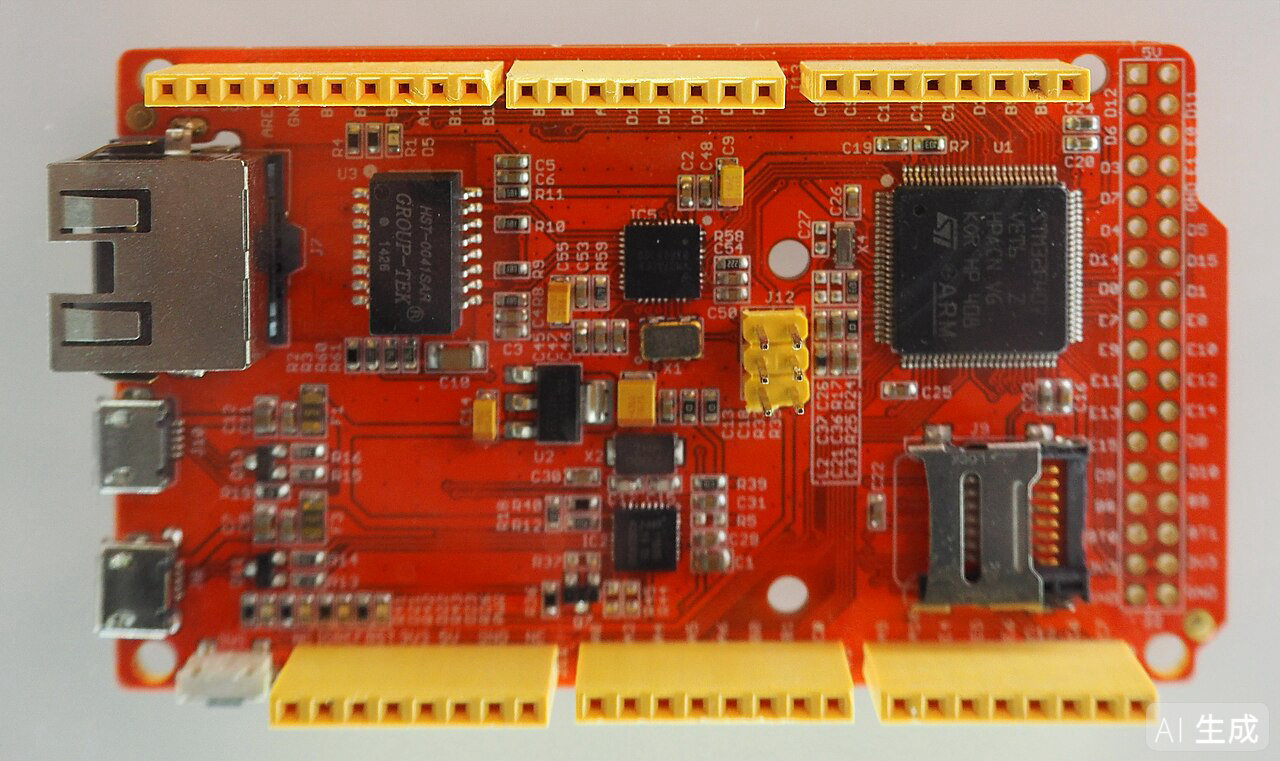
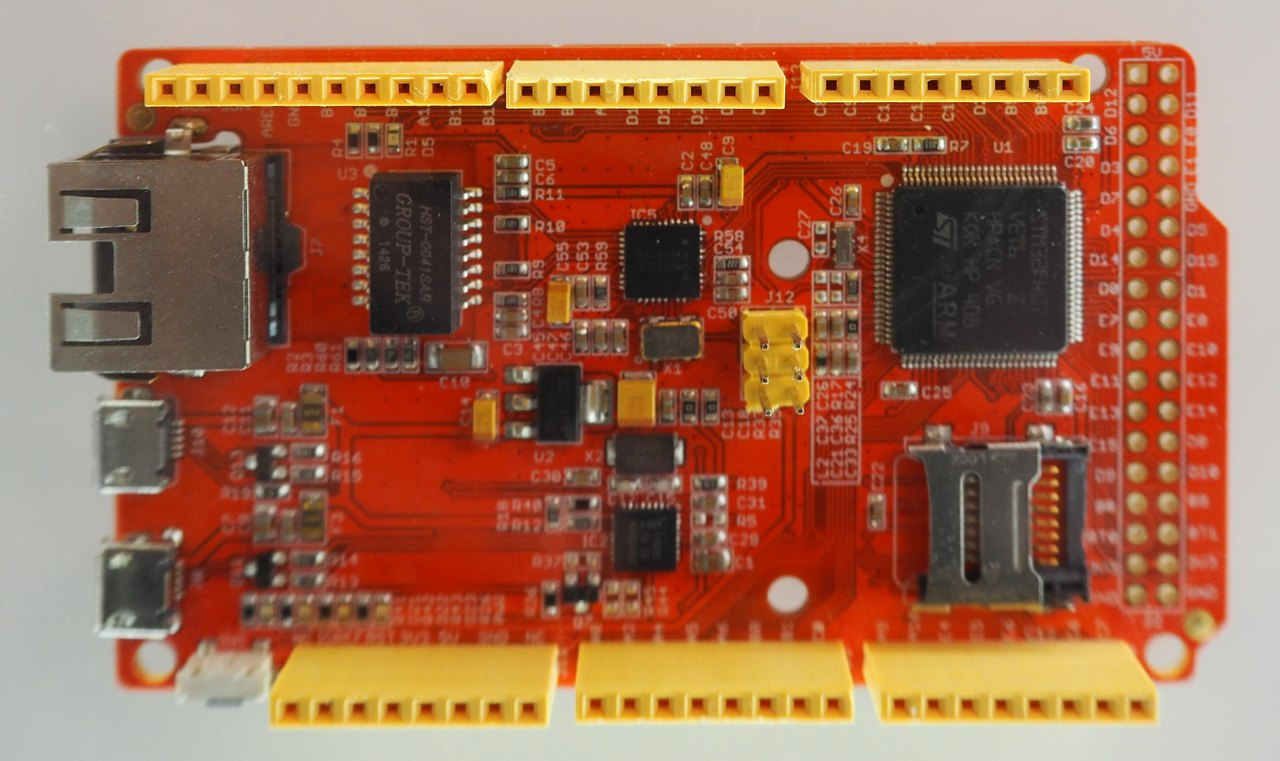
fix(media): replace AI board images with licensed real photos
Remove the AI-generated/watermarked STM32F407 and ESP32-S3 board
blobs that were mislabeled as real open-license photographs.

Use the verified Commons originals: Ordercrazy's CC0 F407 photo
and VectorVoyager's CC BY-SA 4.0 ESP32-S3-WROOM-1-N16R8 photo.
Record the retired hashes so the old AI blobs cannot roll back.

Add the ESP32-S3 photo to ch30, link the F407 source in ch05,
and extend the photo hash/mirror gate to 14 licensed entries.

Verified: check_assets 14/14 photos; book checks, HTML render,
slop lint, 11 entrypoint tests, VitePress build, site gates, and
built-page visuals for ch05/ch30. task_verify unverified.

Changed region(s): [[0.125, 0.0907, 0.8438, 0.1511], [0.875, 0.9067, 1.0, 0.9974], [0.1875, 0.272, 0.2188, 0.3022]]

diff --git a/tools/check_assets.py b/tools/check_assets.py
@@ -615,6 +615,14 @@ def check_photos():
[1 lines of base64/hex data omitted]
             (726, 726),
         ),
+        "stm32f407-board.jpg": (
[1 lines of base64/hex data omitted]
+            (1280, 761),
+        ),
+        "esp32s3-wroom1-module.jpg": (
[1 lines of base64/hex data omitted]
+            (960, 960),
+        ),
     }
     ok = True
     for name, (want_hash, want_size) in expected.items():
@@ -642,6 +650,8 @@ def check_photos():
         "oscilloscope-ds1054z.jpg": "tools",
         "multimeter-dt830d.jpg": "tools",
         "eeprom-24c02.jpg": "tools",
+        "stm32f407-board.jpg": "boards",
+        "esp32s3-wroom1-module.jpg": "boards",
     }
     for name, folder in mirrors.items():
         source = os.path.join(ROOT, "assets", "photos", name)

diff --git a/assets/photos/README.md b/assets/photos/README.md
@@ -16,6 +16,10 @@
[5 lines of base64/hex data omitted]
+
+`stm32f407-board.jpg` 与 `esp32s3-wroom1-module.jpg` 已替换此前带 `AI生成` 水印的副本。旧 blob `afdf7112…bec620` 与 `2e1b050f…bd7a6` 不得回退；当前文件均为真实照片，只作板卡/模组识别，不是上板证据。
 
 `stlink-v2-swd-connector.jpg` 是 ST-Link/V2 与 48-pin STM32F103C8T6 开发板的 SWD 四线接线实拍，只作接线形态参考，不证明驱动枚举或烧录成功。`logic-analyzer-8ch.jpg`、`oscilloscope-ds1054z.jpg`、`multimeter-dt830d.jpg` 与 `eeprom-24c02.jpg` 都是仪器/器件形态照片，不是测量截图或上板证据。工具照片的站点镜像位于 `docs/public/images/tools/`，字节与源文件一致；板卡照片镜像位于 `docs/public/images/boards/`。
 

diff --git a/assets/README.md b/assets/README.md
@@ -2,7 +2,7 @@
 
 > **这一层是合并前的素材库，正文不读 `assets/`。** 合并版站点图在 `docs/public/{anim,arch,figures,images}`，由 `book/build_html.py` 打包进书；`assets/` 里的 SVG 与 GIF 供公众号（`tools/md2mp.py`）和讲解片（`tools/narration.py`、`tools/gen_narrated.py`）复用，另有一部分是合并前版本的留存。
 >
-> 本目录的 SVG / GIF 由本项目代码生成；`assets/photos/` 的十二张第三方实拍保持原许可（CC0 ×3、CC BY-SA 4.0 ×3、CC BY-SA 2.0 ×3、MIT ×3），作者、原图页、处理方式与校验和见 `assets/photos/README.md`。
+> 本目录的 SVG / GIF 由本项目代码生成；`assets/photos/` 的十四张第三方实拍保持原许可（CC0 ×4、CC BY-SA 4.0 ×4、CC BY-SA 2.0 ×3、MIT ×3），作者、原图页、处理方式与校验和见 `assets/photos/README.md`。
 > 生成脚本在 `tools/`，修改后重新运行即可再生成：
 >
 > ```bash
@@ -97,6 +97,8 @@
 | `oscilloscope-ds1054z.jpg` | RIGOL DS1054Z 四通道示波器 | Draconichiaro，CC BY-SA 4.0；仪器形态参考 |
 | `multimeter-dt830d.jpg` | DT830D 数字万用表 | Ranjithkumar Murugesan，CC0；仪器形态参考 |
 | `eeprom-24c02.jpg` | 24C02 SOIC-8 EEPROM | Cole L，CC BY-SA 2.0；器件封装参考 |
+| `stm32f407-board.jpg` | 第三方 STM32F407 LQFP100 开发板 | Ordercrazy / Thomas Springer，CC0；板卡识别 |
+| `esp32s3-wroom1-module.jpg` | ESP32-S3-WROOM-1-N16R8 模组与开发板 | VectorVoyager，CC BY-SA 4.0；模组识别 |
 
 完整来源、原图页、处理尺寸和 SHA-256 见 [`photos/README.md`](photos/README.md)。NUCLEO-L476RG 的具体焊桥、跳线和硬件版本以 ST 官方产品页与 UM1724 为准。
 

diff --git a/docs/v4-platforms/30-esp32s3-architecture-boot.md b/docs/v4-platforms/30-esp32s3-architecture-boot.md
@@ -13,6 +13,10 @@ ESP32-S3 上电之后经过三次交接：ROM 交给 bootloader，bootloader 交
 
 > 版本口径：ESP-IDF **v5.5.2**（`esp_idf_version.h:14-18` tag 5/5/2）；板卡立创实战派 S3（ESP32-S3-WROOM-1-N16R8：16 MB Flash + 8 MB PSRAM，LX7 双核 240 MHz）。引用行号只写 v5.5.2 实取命中的；换版本按 E4 的提醒重核。
 
+![ESP32-S3-WROOM-1-N16R8 模组与开发板实拍：屏蔽罩丝印、排针和双 Type-C 接口；这是器件/板卡参考，不是上板证据](/images/boards/esp32s3-wroom1-module.jpg)
+
+照片：VectorVoyager，[CC BY-SA 4.0](https://creativecommons.org/licenses/by-sa/4.0)，[Wikimedia Commons 原图页](https://commons.wikimedia.org/wiki/File:ESP32-S3_on_paper.jpg)。图中模组标注 N16R8；本章实测仍以手上板卡与证据记录为准。
+
 ## 本章罗盘
 
 - **问题**：三次交接各做什么，卡在哪一步看哪段日志。`app_main` 不是 main：main task 的优先级、栈、亲和，以及 `TASK_EXTRA_STACK_SIZE` 这层加项为何不能漏。XIP 与 Cache 映射如何改变「代码在哪」，IRAM 纪律从哪来。分区与组件：分区表四列、Offset 为何留空；组件化的三件事与依赖图，main 为何是「自动收集的项目组件」；manifest 管来源与版本，`REQUIRES` 管构建可见性，两层如何接进同一张图。配置与构建：Kconfig 三段论的三个产物，`CONFIG_IDF_TARGET_ESP32S3` 闭环，`idf.py` 各子命令各查哪一层，错目标的 sdkconfig 为何会静默编错芯片。

diff --git a/docs/v0-foundations/05-toolchain-four-steps.md b/docs/v0-foundations/05-toolchain-four-steps.md
@@ -318,7 +318,7 @@ $ arm-none-eabi-nm -n blink.elf | grep -E ' (Reset_Handler|main)$'
 
 ![基于 STM32F407 的第三方开发板，LQFP100 封装](/images/boards/stm32f407-board.jpg)
 
-> F407 家族板卡形态参考：图为一块第三方 F407 板（LQFP100）；来源的基准板霸天虎为 F407ZGT6（LQFP144），外观不同、芯片同门（Wikimedia Commons，CC0，作者 Ordercrazy）。
+> F407 家族板卡形态参考：图为一块第三方 F407 板（LQFP100）；来源的基准板霸天虎为 F407ZGT6（LQFP144），外观不同、芯片同门（[Wikimedia Commons](https://commons.wikimedia.org/wiki/File:Embedded_World_2016,_STM32_F407_VGT6.jpg)，[CC0 1.0](https://creativecommons.org/publicdomain/zero/1.0/)，作者 Ordercrazy）。
 
 **第一步：装 ARM 交叉编译器。** 打开 Arm 官网开发者页，搜 “Arm GNU Toolchain”，下载 Windows 版 `arm-gnu-toolchain-14.x.rel*-mingw-w64-x86_64-arm-none-eabi.exe`。安装到最后一步务必勾选 “Add path to environment variable”，然后开一个**新的**终端用 `arm-none-eabi-gcc --version` 验证。来源环境章以 14.x 安装包为例，看到 `gcc version 14.x.x` 即成功；这里的取证工程版本是 15.2.1。版本号会变，验收点不变：`--version` 要报出 `arm-none-eabi` 目标。
 
